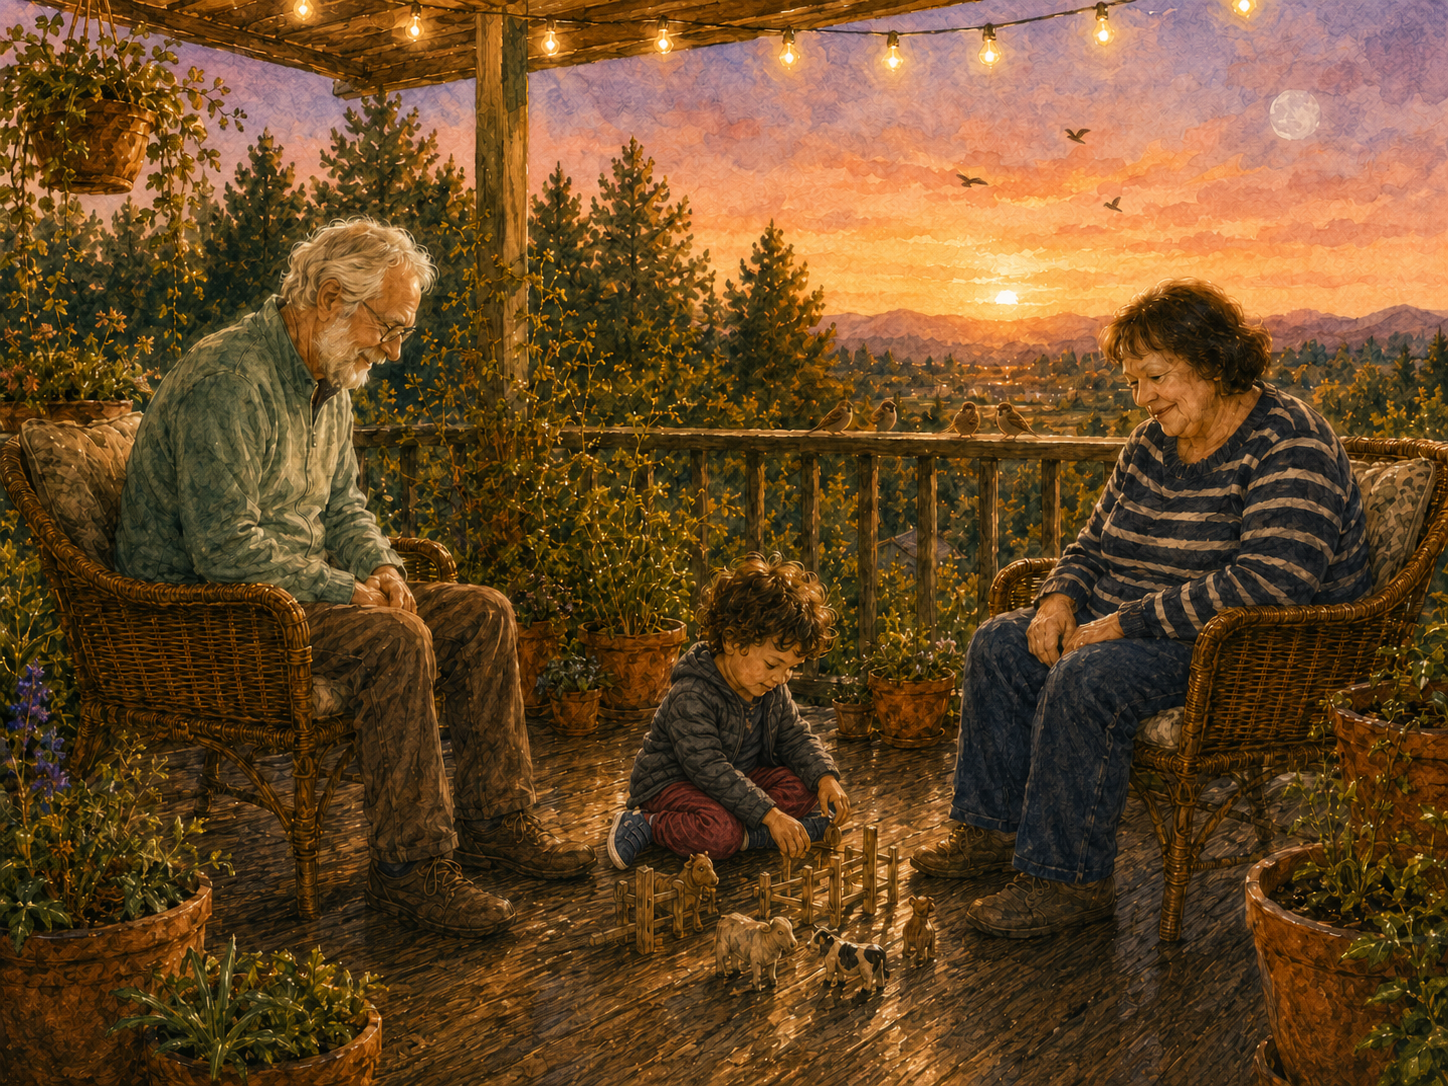
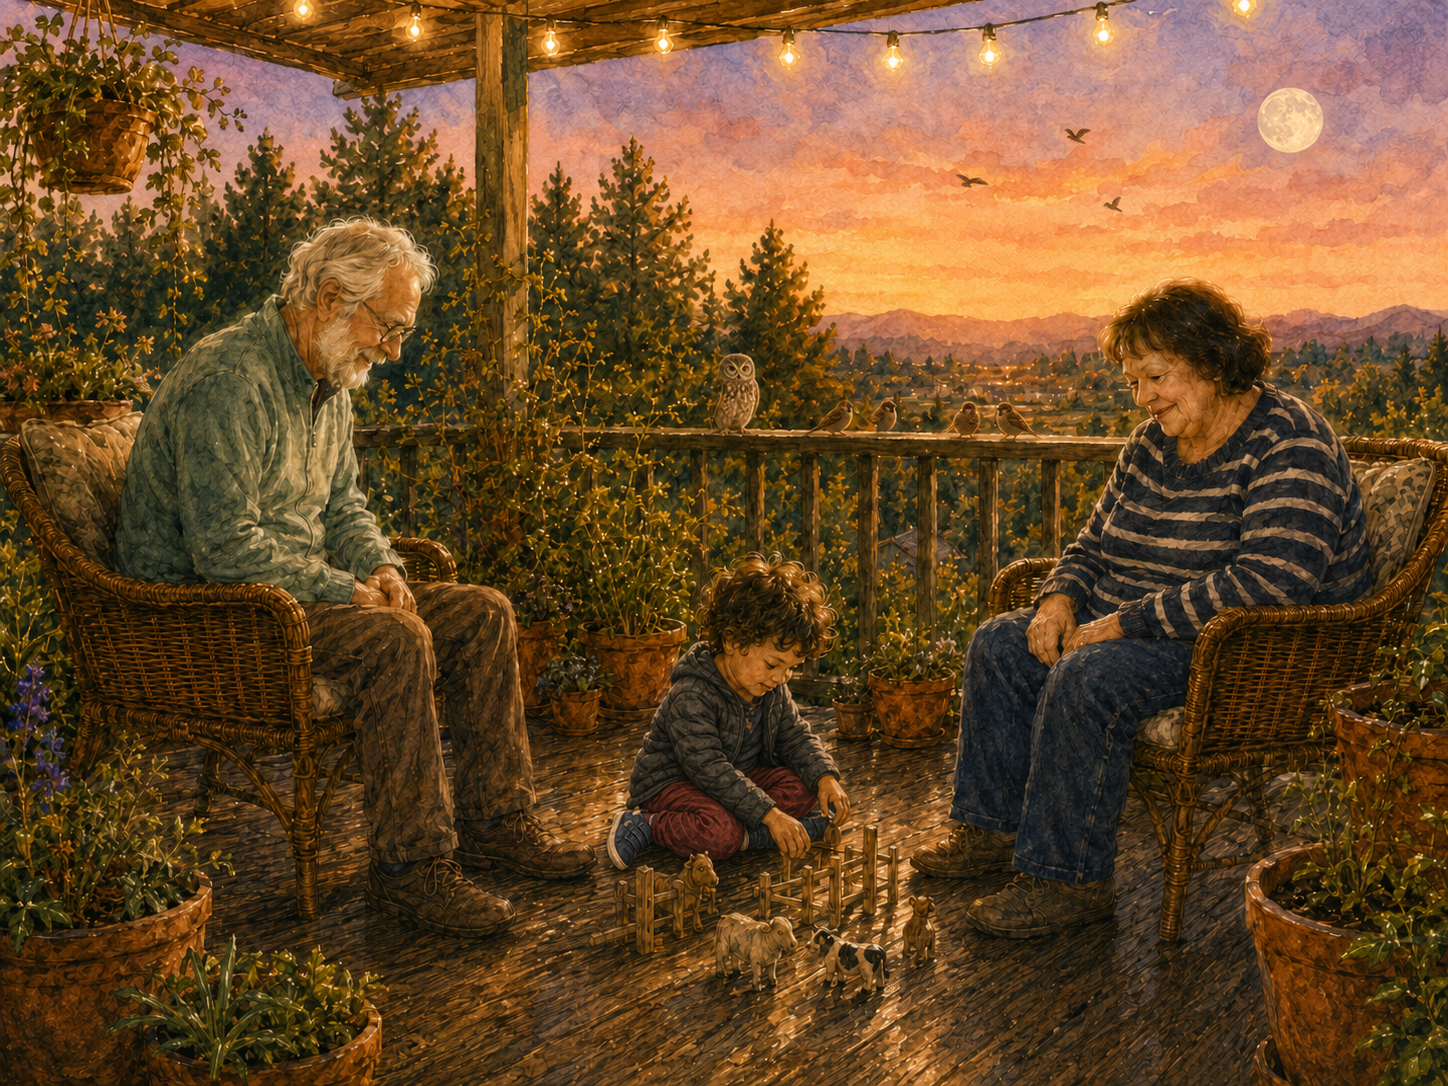
El Recodo: el buho en el atardecer, y el sol que no podia estar ahi
El buho se muda desde la ventana de 14_mastana_oracion, donde salia
invisible, al pasamanos del atardecer: fondo oscuro detras, luz calida
de frente, y el doble de alto que un gorrion para que se lea como buho.

Y se corrige la astronomia. La terraza mira al este, asi que el sol se
pone a la espalda de la camara y no podia haber un disco solar en el
cuadro. Se quita el disco y su foco; se deja la franja calida del
horizonte, que mirando al este es real; y sube la luna llena, que es
justo lo que sale por el este cuando el sol se pone por el oeste.

Changed region(s): [[0.6215, 0.2127, 0.7459, 0.3343], [0.8702, 0.0608, 0.9323, 0.1519], [0.4972, 0.3039, 0.5283, 0.4254]]

diff --git a/kuchulu/index.html b/kuchulu/index.html
@@ -524,7 +524,7 @@
 <div class="page spread">
   <div class="spread-inner">
     <div class="spread-img-wrap">
-      <img class="spread-img" src="ilustraciones/18_terraza_atardecer.png" alt="Atardecer en la terraza, con la luna y las lucecitas; Masbaba, Mastana y Kuchulu, y una hilera de gorriones en la baranda mientras otros vuelven volando" loading="eager">
+      <img class="spread-img" src="ilustraciones/18_terraza_atardecer.png" alt="Atardecer en la terraza, con la luna llena saliendo sobre la cordillera y las lucecitas encendidas; Masbaba, Mastana y Kuchulu, una hilera de gorriones en la baranda, un buho al otro extremo y otros pajaros volviendo por el cielo" loading="eager">
     </div>
     <div class="spread-text-box">
       <div class="spread-text">
